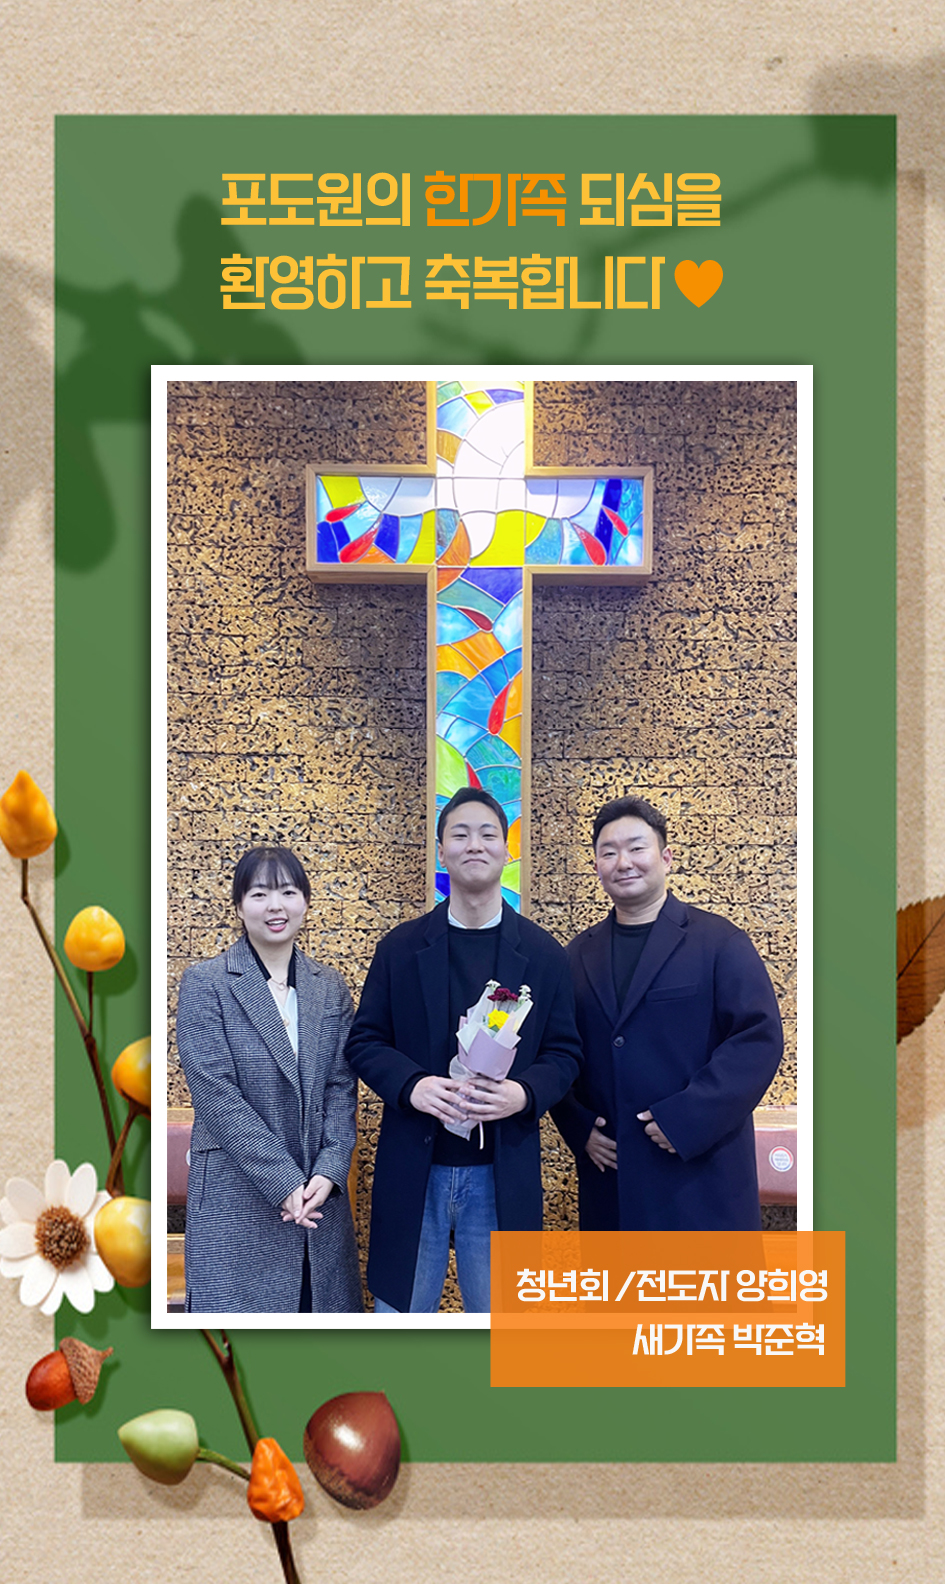
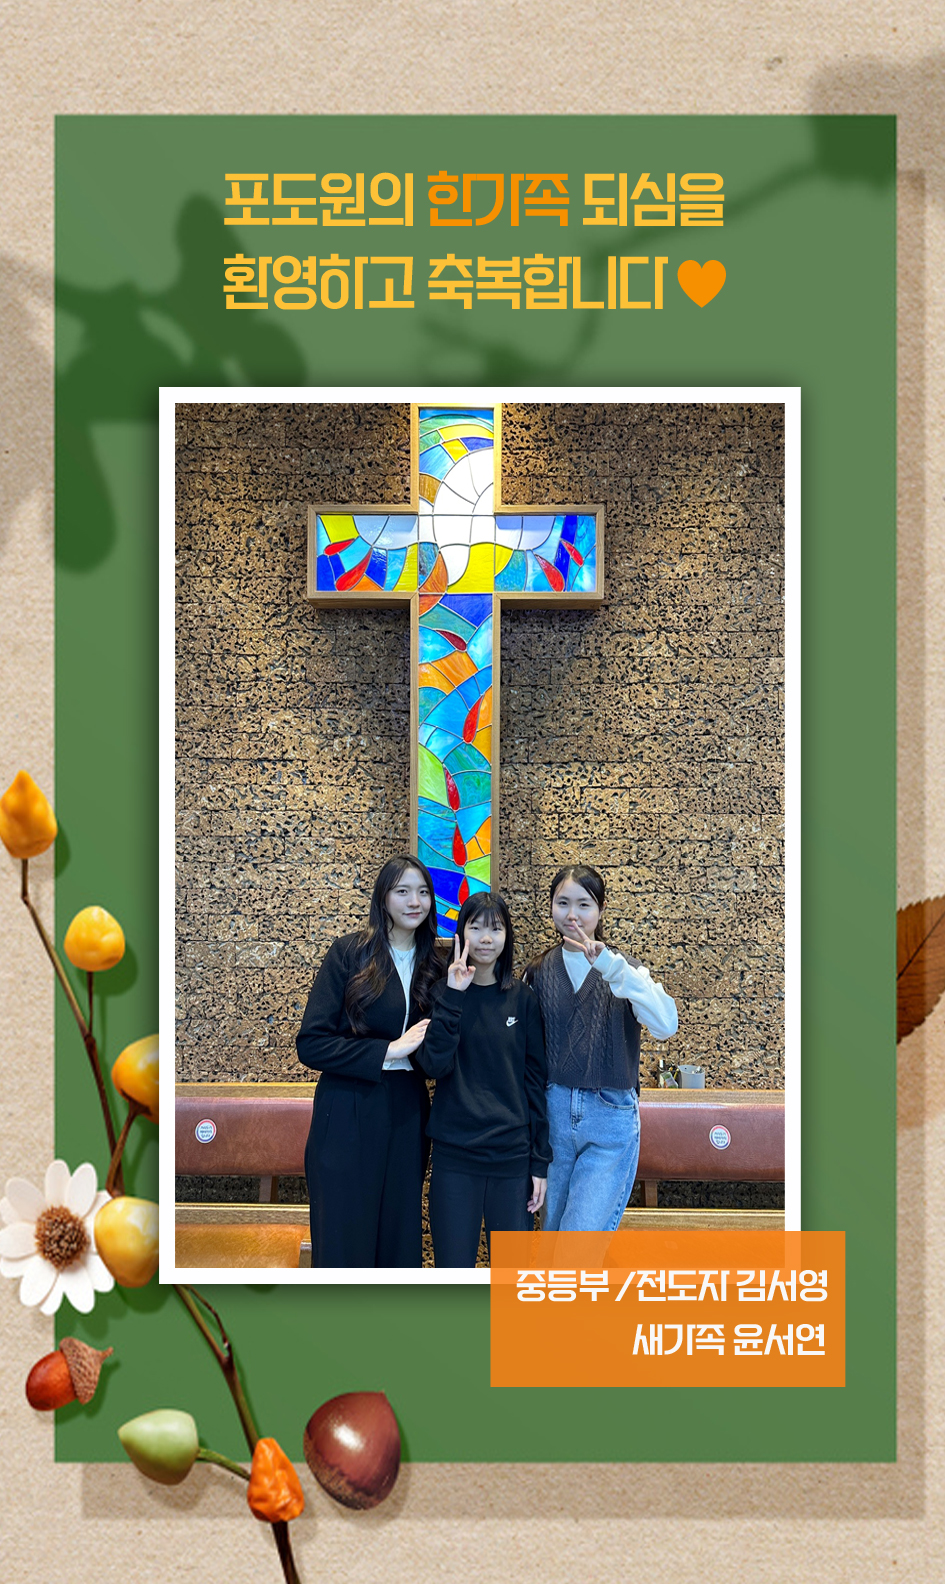
1123

diff --git a/digital_pre.html b/digital_pre.html
@@ -168,8 +168,8 @@
 
 
                     
-                    <!-- <img src="asset/image/digital_pre/새가족-1.webp" class="mainImage">
-                    <img src="asset/image/digital_pre/새가족-2.webp" class="mainImage"> -->
+                    <img src="asset/image/digital_pre/새가족-1.webp" class="mainImage">
+                    <img src="asset/image/digital_pre/새가족-2.webp" class="mainImage">
                 
               
 
